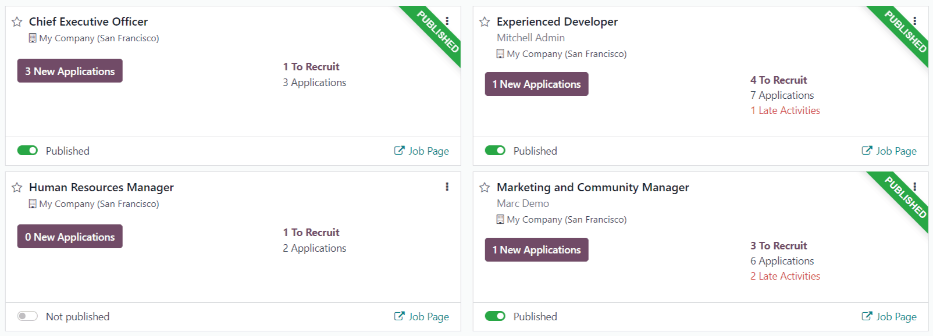
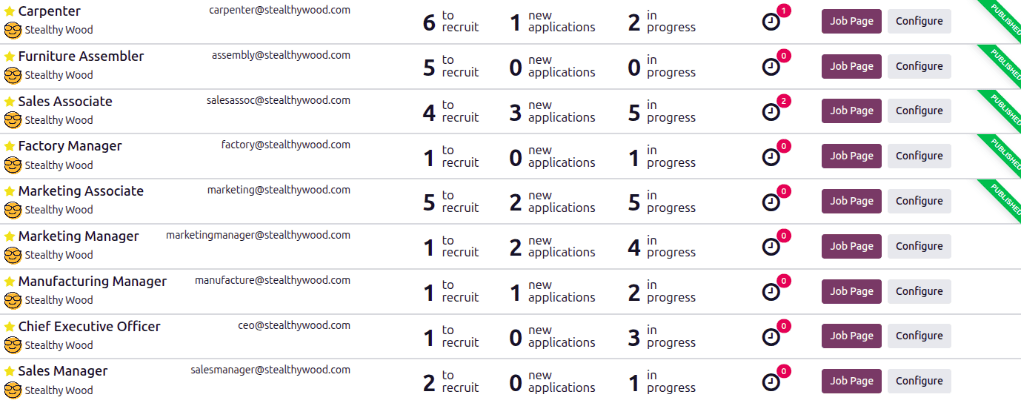
[IMP] Recruitment - Update job positions
closes odoo/documentation#19164

diff --git a/content/applications/hr/recruitment/new_job.rst b/content/applications/hr/recruitment/new_job.rst
@@ -2,28 +2,30 @@
 Job positions
 =============
 
-In Odoo's **Recruitment** application, all job positions are shown on the default dashboard in the
-**Recruitment** app, which includes both active and inactive positions.
+In Odoo's **Recruitment** application, all job positions are shown on the default *Job Positions*
+dashboard, which includes both active and inactive positions.
 
 Each job position is shown in an individual Kanban card. If the job position is active, and
-candidates can apply, a :guilabel:`PUBLISHED` banner appears in the top-right corner of the card.
+candidates can apply, a green :guilabel:`Published` banner appears in the top-right corner of the
+card.
 
-View submitted applications by clicking anywhere on a job position card.
+View submitted applications by clicking anywhere on a job position card, except the
+:icon:`fa-clock-o` :guilabel:`(Activities)` icon, the :guilabel:`Job Page` button, or the
+:guilabel:`Configure` button.
 
 .. image:: new_job/jobs.png
    :alt: Main dashboard view of Recruitment app showing all job positions.
 
-.. _job-position/create-job-position:
+.. _recruitment/new_job/create-job-position:
 
-Create a new job position
-=========================
+Create a job position
+=====================
 
-To create a new job position from the main dashboard in the **Recruitment** app, click the
-:guilabel:`New` button in the top-left corner, and a :guilabel:`Create a Job Position` pop-up window
-appears.
+To create a job position from the main dashboard in the **Recruitment** app, click the
+:guilabel:`New` button in the top-left corner, and a *Create a Job Position* pop-up window appears.
 
 First, enter the name of the :guilabel:`Job Position` (such as `Sales Manager`, `Mechanical
-Engineer`, etc.) in the field.
+Engineer`, etc.) in the corresponding field.
 
 Next, enter an :guilabel:`Application email` by typing in the first half of the email address in the
 first field, then select the second half of the email using the drop-down menu in the second field.
@@ -36,143 +38,177 @@ button to delete it.
 .. image:: new_job/job-title.png
    :alt: Create a new job position.
 
-Once the job position has been created, it appears as a card in the Kanban view on the main
-**Recruitment** app dashboard.
+.. note::
+   Once the :guilabel:`Create` button is clicked, the *Applications* dashboard for the newly created
+   job loads. The *Applications* dashboard is empty, as there are no applicants. Click the
+   :guilabel:`Job Positions` breadcrumb to return to the main **Recruitment** app dashboard.
 
-.. _recruitment/new_job_position/edit:
+.. _recruitment/new_job/configure-job-position:
 
-Edit a new job position
------------------------
+Configure a job position
+------------------------
 
-After the job position is created, it is time to enter the details for the position. Click on the
-:icon:`fa-ellipsis-v` :guilabel:`(Dropdown menu)` icon in the upper-right corner of the relevant
-card to reveal several options, and then click :guilabel:`Configuration` to edit the details.
+Once the job position has been :ref:`created <recruitment/new_job/create-job-position>`, the details
+must be configured. On the main **Recruitment** app dashboard, click the :guilabel:`Configure`
+button at the end of the Kanban card, and the detailed job position form loads.
 
-.. image:: new_job/edit-job.png
-   :alt: Edit the job position card.
+Configure the *Details*, *Summary*, *Application Info*, and *Trackers* tabs, as described below.
 
-Recruitment tab
-~~~~~~~~~~~~~~~
+Details tab
+~~~~~~~~~~~
 
-All the basic information about the job position is listed under the :guilabel:`Recruitment` tab.
+All the basic details about the job position are housed in the *Details* tab.
 
 None of the fields are required, but it is important to configure and populate the
-:guilabel:`Department`, :guilabel:`Job Location`, :guilabel:`Employment Type` fields, and the
-:guilabel:`Job Summary` tab, as they are all visible to prospective applicants on the website.
+:guilabel:`Department`, :guilabel:`Job Location`, and :guilabel:`Employment Type` fields, as they
+are all visible to prospective applicants on the website.
 
 .. note::
-   Some fields listed below may not appear depending on the database configuration and other
-   installed applications.
+   Some fields listed below may not appear depending on the installed apps and database
+   configuration.
 
-The fields can be filled out as follows:
+Enter the information in the following sections.
 
+.. _recruitment/new_job/hiring-process:
+
+Hiring process section
+**********************
+
+- :guilabel:`Recruiter`: Select the person responsible for recruiting this role.
+- :guilabel:`Interviewers`: Select who should perform the interviews. Multiple people can be
+  selected.
+- :guilabel:`Interview Form`: Select an interview form that applicants fill out prior to their
+  interview.
+- :guilabel:`Email Alias`: Enter an email address to which applicants can send a resumé. Once
+  emailed, Odoo automatically creates an application for them. If an email was entered when creating
+  the job position, this field is populated.
+- :guilabel:`Website`: Select the website the job is published on.
+
+Job section
+***********
+
+- :guilabel:`Company`: Select the company the job is for. This field only appears if using a
+  multi-company database.
 - :guilabel:`Department`: Select the relevant department for the job position. This is visible on
   the website.
 - :guilabel:`Job Location`: Select the physical address for the job. If the job position is remote,
   leave this field blank. This is visible on the website.
-- :guilabel:`Industry`: Select the relevant industry the job position falls under. This field
-  corresponds to the industries on job boards. Odoo comes with 86 preconfigured industries. It is
-  *not* recommended to add a new industry, as it may hide the job position during some searched on
-  the various job boards.
-- :guilabel:`Email Alias`: Enter an email address to which applicants can send a resumé. Once
-  emailed, Odoo automatically creates an application for them. If an email was entered when creating
-  the job position, this field is populated.
-- :guilabel:`Employment Type`: select what type of position the job is, using the drop-down menu.
-  The default options are :guilabel:`Permanent`, :guilabel:`Temporary`, :guilabel:`Seasonal`,
-  :guilabel:`Full-Time`, :guilabel:`Intern`, :guilabel:`Student`, :guilabel:`Apprenticeship`,
-  :guilabel:`Thesis`, :guilabel:`Statutory`, and :guilabel:`Employee`. Depending on the installed
-  localization, other options may be available. This is visible on the website.
-- :guilabel:`Working Schedule`: Select the working schedule for the job position. Odoo provides one
-  working schedule by default, :guilabel:`Standard 40 hours/week`, but all working schedules in the
-  database are available.
+
+Job posting section
+*******************
+
+- :guilabel:`Published`: When the job position is ready to be published on the website, click the
+  :guilabel:`Published` toggle to publish the job position. The toggle changes to green, indicating
+  the listing is live on the website.
+- :guilabel:`Target`: Enter the number of employees to be hired for this position.
+- :guilabel:`Expected Skills`: Select all the desired skills for the job position in this field. To
+  add a skill, click the :icon:`fa-plus` :guilabel:`(plus sign)` icon, and select the *Category*,
+  *Skill*, and *Skill Level* for each skill added. The skills presented are :ref:`configured in the
+  Employees app <employees/skills>`.
+- :guilabel:`Expected Degree`: Select the level of education desired, using the drop-down menu. The
+  default options are: :guilabel:`Graduate`, :guilabel:`Bachelor Degree`, :guilabel:`Master Degree`,
+  and :guilabel:`Doctoral Degree`.
 - :guilabel:`Salary Range`: Enter both the minimum and maximum salaries offered for the position in
   the two fields. Then, set the last field to the time-frame for the salary range. The default
   options are :guilabel:`Hour`, :guilabel:`Day`, :guilabel:`Week`, :guilabel:`Bi-Week`,
   :guilabel:`Month`, and :guilabel:`Year`.
-- :guilabel:`Expected Skills`: Select all the desired skills for the job position, using the
-  drop-down menu. The skills presented are :ref:`configured in the Employees app
-  <employees/skills>`.
-- :guilabel:`Company`: Select the company the job is for. This field only appears if using a
-  multi-company database.
-- :guilabel:`Mission Dates`: Using the calendar selector, set the start date for the job position.
-  If the job is temporary and has a specific end date, set the end date in the second field.
-- :guilabel:`Target`: Enter the number of employees to be hired for this position.
-- :guilabel:`Website`: Select the website the job is published on.
-- :guilabel:`Recruiter`: Select the person responsible for recruiting this role.
-- :guilabel:`Interviewers`: Select who should perform the interviews. Multiple people can be
-  selected.
-- :guilabel:`Interview Form`: select an :ref:`Interview form <recruitment/interview>` that
-  applicants fill out prior to their interview.
+
+Contract section
+****************
+
+- :guilabel:`Employment Type`: Select what type of position the job is, using the drop-down menu.
+  The default options are :guilabel:`Permanent`, :guilabel:`Temporary`, :guilabel:`Interim`,
+  :guilabel:`Seasonal`, :guilabel:`Full-Time`, :guilabel:`Part-Time`, :guilabel:`Intern`,
+  :guilabel:`Student`, :guilabel:`Apprenticeship`, :guilabel:`Thesis`, :guilabel:`Statutory`, and
+  :guilabel:`Employee`. Depending on the installed localization, other options may be available.
+  This is visible on the website.
+- :guilabel:`Working Schedule`: Select the working schedule for the job position. Odoo provides one
+  working schedule by default, :guilabel:`Standard 40 hours/week`, but all working schedules in the
+  database are available.
 - :guilabel:`Contract Template`: Select a contract template to be used when offering the job to a
   candidate.
 
-.. image:: new_job/recruitment-tab.png
+.. image:: new_job/details.png
    :alt: The job information details in the Recruitment tab.
 
-Job summary tab
-~~~~~~~~~~~~~~~
+Summary tab
+~~~~~~~~~~~
 
-Enter the job description in the :guilabel:`Job Summary` tab. This description is visible on the
-website.
+Enter the complete job description in the *Summary* tab. This description is visible on the website,
+and should convey any relevant information for the position that is **not** covered or explained in
+the *Details* tab. This may include information such as specific tasks the job requires, any
+required past experience, or uncommon benefits or compensation.
 
-.. image:: new_job/job-summary.png
+.. image:: new_job/summary.png
    :alt: The summary of the position in the Job Summary tab.
+
+.. _recruitment/new_job/application_info:
 
 Application info tab
 ~~~~~~~~~~~~~~~~~~~~
 
-The :guilabel:`Process Details` section of the :guilabel:`Application Info` tab contains information
-that is displayed online for the job position. This informs the applicants of the timeline and steps
-for the recruitment process, so they know when to expect a reply.
+The *Process Details* section of the *Application Info* tab contains information that is displayed
+online for the job position. This informs the applicants of the timeline and steps for the
+recruitment process, so they know when to expect a reply.
 
 The following fields are populated by default, but can be modified to suit the recruitment timeline
 of the business:
 
-- :guilabel:`Time to Answer`: Enter the number of days before the applicant is contacted.
-  :guilabel:`2 open days` populates this field by default.
-- :guilabel:`Process`: Enter the various stages the candidate goes through during the recruitment
-  process. By default, two process steps are visible: :guilabel:`1 Phone Call` and :guilabel:`1
-  Onsite Interview`.
-- :guilabel:`Days to get an Offer`: Enter the number of days before the applicant should expect an
-  offer after the recruitment process has ended. The default is :guilabel:`4 Days after Interview`.
+- :guilabel:`Time to Answer`: The number of days before the applicant is contacted. :guilabel:`2
+  open days` populates this field by default.
+- :guilabel:`Process`: The various stages the candidate goes through during the recruitment process.
+  By default, two process steps are visible: :guilabel:`1 Phone Call` and :guilabel:`1 Onsite
+  Interview`.
+- :guilabel:`Days to get an Offer`: The number of days before the applicant should expect an offer
+  after the recruitment process has ended. The default is :guilabel:`4 Days after Interview`.
 
 .. image:: new_job/app-info.png
    :alt: Enter job information details in the recruitment tab.
 
 .. note::
-   The :guilabel:`Process Details` section is a text field. All answers are typed in rather than
-   selected from a drop-down menu. The text is displayed on the website exactly as it appears in
-   this tab.
+   The *Process Details* section of the *Application Info* tab is a text field. All answers are
+   typed in rather than selected from a drop-down menu. The text is displayed on the website exactly
+   as it appears in this tab.
 
-.. _recruitment/interview:
+Trackers tab
+~~~~~~~~~~~~
 
-Create interview form
----------------------
+When reaching potential applicants, recruiters often share the job position across multiple
+websites, including social media sites, job board sites, and third-party hosting sites. The
+*Trackers* tab provides a centralized place for recruiters to keep a record of all the places a
+tracking link has been shared. This allows recruiters to determine which sites were the most
+successful in terms of receiving applications from them.
 
-An *Interview Form* is used to determine if a candidate is a good fit for a job position. Interview
-forms can be as specific or general as desired, and can take the form of a certification, an exam,
-or a general questionnaire. Interview forms are determined by the recruitment team.
+.. tip::
+   Before creating trackers, first :ref:`publish <post-job/website>` the job on the company website.
 
-Before creating an interview form, ensure the proper settings are enabled. Navigate to
-:menuselection:`Recruitment app --> Configuration --> Settings`, and under the
-:guilabel:`Recruitment Process` section, ensure the :guilabel:`Send Interview Survey` option is
-enabled.
+To add a tracking link, click on the *Trackers* tab, click :guilabel:`Add a line`, and a blank line
+appears at the top of the list. Configure the following fields for each tracker:
 
-Since there are no preconfigured forms in Odoo, all interview forms must be created. To create an
-interview form, start from the :guilabel:`Recruitment` tab of the :guilabel:`Job Position` form. In
-the :guilabel:`Interview Form` field, enter a name for the new interview form. As the name is typed,
-several options populate beneath the entry: :guilabel:`Create (interview form name)`,
-:guilabel:`Search More...`, and :guilabel:`Create and edit...`. Click :guilabel:`Create and edit...`
-and a :guilabel:`Create Interview Form` pop-up window appears.
+- :guilabel:`Campaign`: Select the :ref:`campaign <marketing/social-campaigns/new-campaign>` the job
+  position falls under using the drop-down menu.
+- :guilabel:`Source`: Select where the tracker was used using the drop-down menu. There are ten
+  default options, such as :guilabel:`Search engine`, :guilabel:`Newsletter`, and
+  :guilabel:`LinkedIn`, but more may be available depending on the installed applications and
+  created events.
+- :guilabel:`Medium`: Select the method used to share the tracker from a list of ten default
+  options, such as :guilabel:`Banner`, :guilabel:`Email`, and :guilabel:`Google Adwords`.
+- :guilabel:`Tracker URL`: Once the :guilabel:`Campaign`, :guilabel:`Source`, and :guilabel:`Medium`
+  are defined, Odoo automatically creates the corresponding tracking link. Click :guilabel:`URL`
+  :icon:`fa-clipboard` to copy the link to the clipboard, then share the link where appropriate.
+- :guilabel:`Email`: Once the :guilabel:`Campaign`, :guilabel:`Source`, and :guilabel:`Medium` are
+  defined, Odoo automatically creates the corresponding email. Click :guilabel:`Email`
+  :icon:`fa-clipboard` to copy the email address to the clipboard, then share the email where
+  appropriate.
 
-.. image:: new_job/blank-interview-form.png
-   :alt: The blank interview form pop-up window.
+.. image:: new_job/trackers.png
+   :alt: The list of all tracked links for the job position.
 
-.. note::
-   The option :guilabel:`Search More...` only appears if there are any interview forms already
-   created. If no interview forms exist, the only options available are :guilabel:`Create (interview
-   form name)`, and :guilabel:`Create and edit...`.
+Job boards tab
+~~~~~~~~~~~~~~
 
-Proceed to fill out the interview form pop-up window as a typical survey. For specific directions on
-how to create a survey, refer to the :doc:`survey essentials <../../marketing/surveys/create>`
-document, which provides step-by-step instructions on how to create and configure a survey.
+The *Job Boards* tab is automatically populated as the job position is :ref:`shared on a job board
+<post-job/boards>`. As each listing is created, the information appears in this tab.
+
+.. seealso::
+   :doc:`post_job`

diff --git a/content/applications/hr/recruitment/velocity_analysis.rst b/content/applications/hr/recruitment/velocity_analysis.rst
@@ -3,9 +3,9 @@ Velocity analysis
 =================
 
 The *Velocity Analysis* report provides information on how long applicants stay in each stage of the
-recruitment process. This is important, as every job position has specific :ref:`process details
-<recruitment/new_job_position/edit>` that state the length of time applicants should expect to wait
-between specific stages.
+recruitment process. This is important, as every job position has specific :ref:`hiring process
+details <recruitment/new_job/hiring-process>` that state the length of time applicants should expect
+to wait between specific stages.
 
 Knowing how long applicants remain in each stage can help highlight possible bottlenecks. Analyzing
 this data allows the recruitment team to assess each stage, identify any issues, and pivot their

diff --git a/content/applications/essentials/property_fields.rst b/content/applications/essentials/property_fields.rst
@@ -201,10 +201,10 @@ models. Once set, the property is shared by all records that are linked to the s
        * - :guilabel:`Recruitment`
          - :ref:`Applicant <recruitment/quick-add-applicant>`
 
-           :ref:`Job Position <recruitment/new_job_position/edit>`
+           :ref:`Job Position <recruitment/new_job/configure-job-position>`
 
            Candidate
-         - :ref:`Job position <job-position/create-job-position>`
+         - :ref:`Job position <recruitment/new_job/create-job-position>`
 
            :ref:`Company <general/companies/company>`
 

diff --git a/content/applications/marketing/social_marketing/social_campaigns.rst b/content/applications/marketing/social_marketing/social_campaigns.rst
@@ -53,6 +53,8 @@ Clicking :guilabel:`Delete` removes the stage entirely.
    viewed as a list, by selecting the :guilabel:`List` option, located under the search bar, in the
    upper-right corner.
 
+.. _marketing/social-campaigns/new-campaign:
+
 Create social marketing campaigns
 =================================
 
